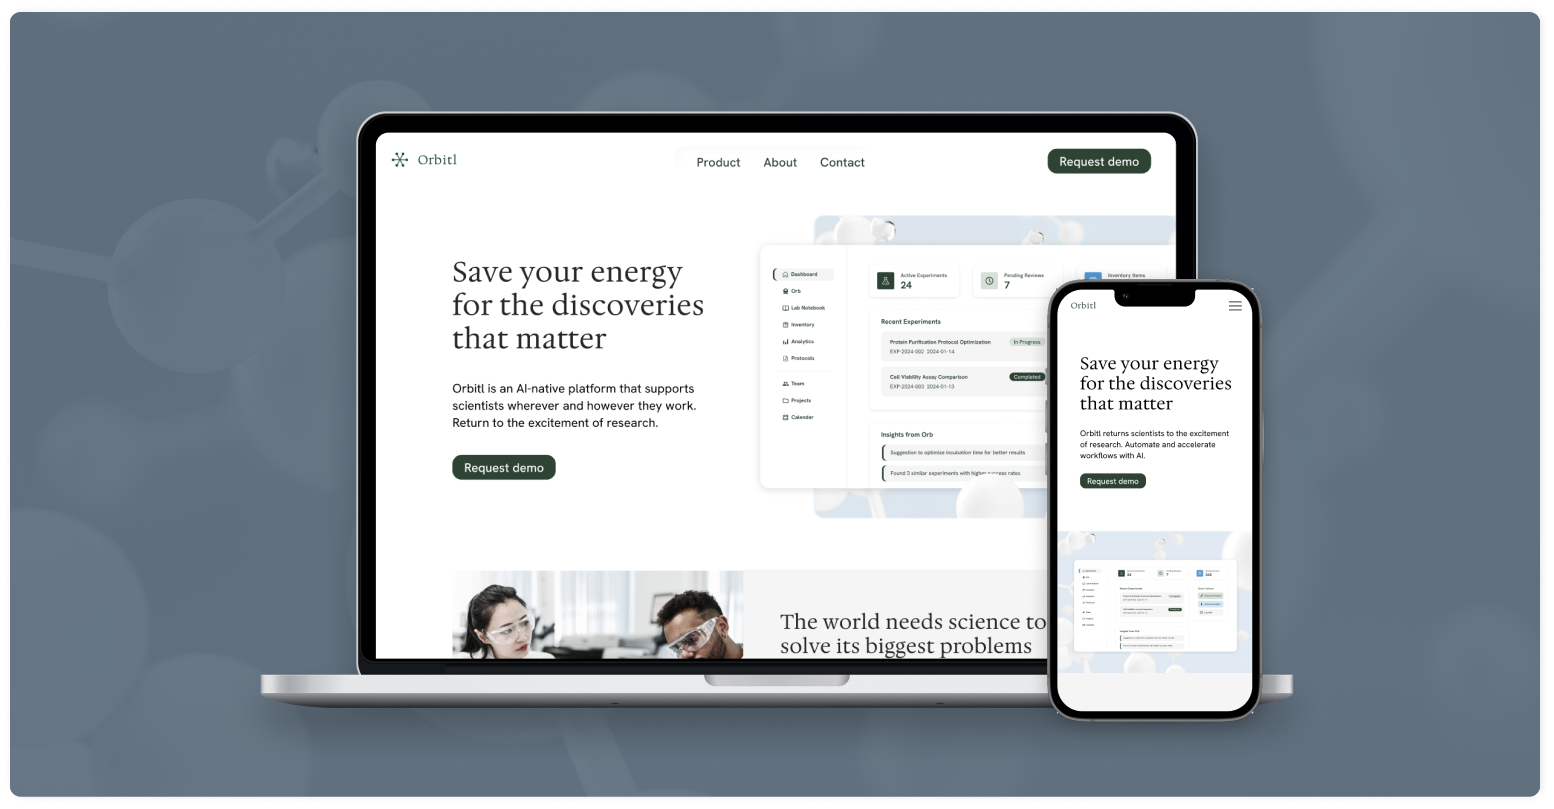
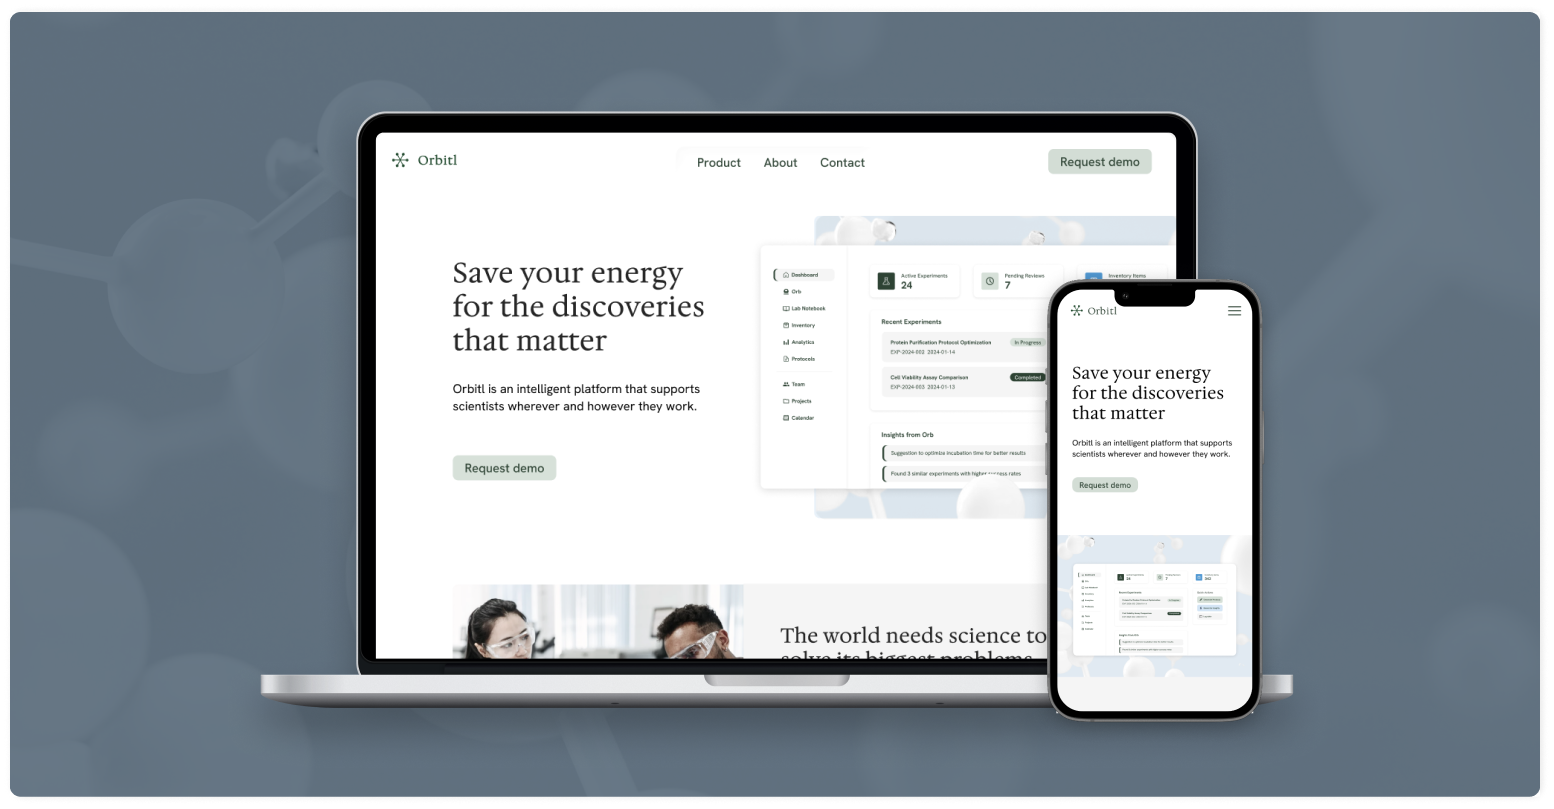
feat: orbitl mockups

diff --git a/src/pages/Project-Orbitl.jsx b/src/pages/Project-Orbitl.jsx
@@ -23,9 +23,9 @@ export default function Orbitl() {
           }}
           metadata={[
             { field: "Type", value: "Freelance" },
-            { field: "Role", value: "Web Designer" },
+            { field: "Role", value: "Product Designer" },
             { field: "Timeline", value: "Nov 2025 - Present" },
-            { field: "Tools", value: "Figma, WordPress" },
+            { field: "Tools", value: "Figma, Canva, WordPress" },
           ]}
         />
 
@@ -40,9 +40,9 @@ export default function Orbitl() {
               Denalia is fantastic at explaining her design process. It's
               reassuring to know that we're working with someone who cares so
               deeply about what we're building. We felt like she could read our
-              minds. She was able to take our vision— how we wanted to inspire
-              people— and turn it into something tangible that even inspires us
-              when we look at it.
+              minds. She took our vision— how we wanted to inspire people— and
+              turned it into something tangible that inspires even us when we
+              look at it.
             </p>
           }
         />
@@ -211,8 +211,7 @@ export default function Orbitl() {
             <span className="bold">
               knowledge, curiosity, exploration, and discovery
             </span>
-            . A dark green was selected as the primary color for Orbitl's logo
-            and CTAs to differentiate it from competitors.
+            .
           </p>
           <ImageCaption
             imageStyle="modern"
@@ -223,33 +222,91 @@ export default function Orbitl() {
           />
         </ProjectSection>
         <hr />
-        <ProjectSection section="The Website" title="Pitching the product">
+        <ProjectSection section="Evolution" title="Adapting to shifting needs">
           <p>
-            The final page positions Orbitl as an innovative solution to a
+            After one week, an early version of the website was published with a
+            waitlist sign up screen and a password-protected home page in order
+            to collect leads and build interest in Orbitl while limiting the
+            information exposed to competitors. I have since continued to work
+            with its founders to refine its branding and content.
+          </p>
+          <img
+            src="/design-projects/orbitl-website/orbitl-mockup-versions.png"
+            alt="Mockups of website"
+          />
+        </ProjectSection>
+        <hr />
+        <ProjectSection section="Demo" title="Pitching beyond a product">
+          <p>
+            The website positions Orbitl as an innovative solution to a
             longstanding problem in science. Its layout mirrors a classic pitch
             so that investors can easily identify the product's core features
             and the competency of its founding team. Beyond this practicality,
-            its aspirational branding aims to connect more deeply with the
-            scientific community and garner excitement about the future of
-            research.
+            its aspirational branding connects more deeply with the scientific
+            community and garners excitement about the future of research.
           </p>
-          <img src="/design-projects/orbitl-website/orbitl-demo.png" />
+          <img src="/design-projects/orbitl-website/orbitl-mockup.png" />
           {/* <p>
             I've continued to work on the website since its first launch. You
             can view the latest design here:
           </p>
           <a href="https://orbitl.info">Visit the live website</a> */}
         </ProjectSection>
+        <hr />
+        <ProjectSection section="Pitch Deck" title="Unifying the brand">
+          <p>
+            In addition to its website, I redesigned Orbitl's pitch deck to
+            establish consistency across channels.
+          </p>
+          <div
+            style={{
+              position: "relative",
+              width: "100%",
+              height: 0,
+              paddingTop: "56.2500%",
+              paddingBottom: 0,
+              boxShadow: "0 2px 8px 0 rgba(63,69,81,0.16)",
+              marginTop: "1.6em",
+              marginBottom: "0.9em",
+              overflow: "hidden",
+              borderRadius: "8px",
+              willChange: "transform",
+            }}
+          >
+            <iframe
+              loading="lazy"
+              style={{
+                position: "absolute",
+                width: "100%",
+                height: "100%",
+                top: 0,
+                left: 0,
+                border: "none",
+                padding: 0,
+                margin: 0,
+              }}
+              src="https://www.canva.com/design/DAG-QGHBzm4/KkAvqN2qb_f-rf8YUNXv5A/view?embed"
+              allow="fullscreen"
+            ></iframe>
+          </div>
+        </ProjectSection>
       </article>
       <ProjectNav
         anchorBase="orbitl"
         sections={[
-          "Overview",
-          "Timeline",
-          "Challenge",
-          "Messaging",
-          "Visuals",
-          "The Website",
+          [
+            "The Website",
+            [
+              "Overview",
+              "Timeline",
+              "Challenge",
+              "Messaging",
+              "Visuals",
+              "Evolution",
+              "Demo",
+            ],
+          ],
+          "Pitch Deck",
         ]}
         articleRef={articleRef}
       />

diff --git a/src/pages/Project-Funn-Website.jsx b/src/pages/Project-Funn-Website.jsx
@@ -195,8 +195,7 @@ export default function FunnWebsite() {
         <ProjectSection section="Visuals" title="Preserving a playful spirit">
           <p>
             I pared down the colors of the website into a palette that
-            represented both the studio's logo and its games, which was then
-            applied consistently across the website. The palette balanced
+            complemented both the studio's logo and its games. It balanced
             vibrant hues with muted pastels for a look that was exciting yet not
             overwhelming.
           </p>
@@ -208,12 +207,11 @@ export default function FunnWebsite() {
             }}
           />
           <p>
-            Initially, the client considered both a dark and a light theme for
-            the website, representing Gemorize and Spell Crush, respectively. I
-            create mockups in order to visualize these options, working with the
-            client to steer the direction of the design into its final form.
-            Ultimately, a light theme better fit the studio's mission and
-            redesign goals.
+            Initially, we considered both dark and light themes for the website
+            to represent Gemorize and Spell Crush, respectively. I worked with
+            the client to steer the direction of the design into its final form.
+            Ultimately, we agreed that a light theme better fit the studio's
+            mission and redesign goals.
           </p>
           <ImageCaption
             imageStyle="modern"
@@ -227,11 +225,11 @@ export default function FunnWebsite() {
         <ProjectSection section="The Website" title="Putting it together">
           <p>
             The studio was inspired by the creators of the hit game Candy Crush
-            and wanted a colorful and content-packed website similar to
-            King.com. The redesign for Funn Interactive would honor this
-            original inspiration, featuring full-page visuals and animated
-            elements, while applying best practices to improve the user
-            experience.{" "}
+            and wanted a colorful and content-packed website similar to{" "}
+            <a href="https://www.king.com/">King.com</a>. The redesign for Funn
+            Interactive would honor this original inspiration, featuring
+            full-page visuals and animated elements, while applying best
+            practices to improve the user experience.{" "}
           </p>
           <p>
             The final page is a vivid and immersive window into its game worlds

diff --git a/src/data/design-projects.js b/src/data/design-projects.js
@@ -14,7 +14,7 @@ const design_projects = {
       src: "/design-projects/orbitl-website/orbitl-bg.png",
     },
     role: "Web Designer",
-    tags: ["Website", "Client", "2026"],
+    tags: ["Website", "Pitch Deck", "Client", "2026"],
     desc: "",
   },
   funn_website: {

diff --git a/src/index.css b/src/index.css
@@ -802,7 +802,7 @@ a.wip:hover {
   font-weight: normal;
 }
 
-.orbitl-website #website-demo img {
+.orbitl-website #demo img {
   border: 1px solid var(--darker-background);
 }
 
